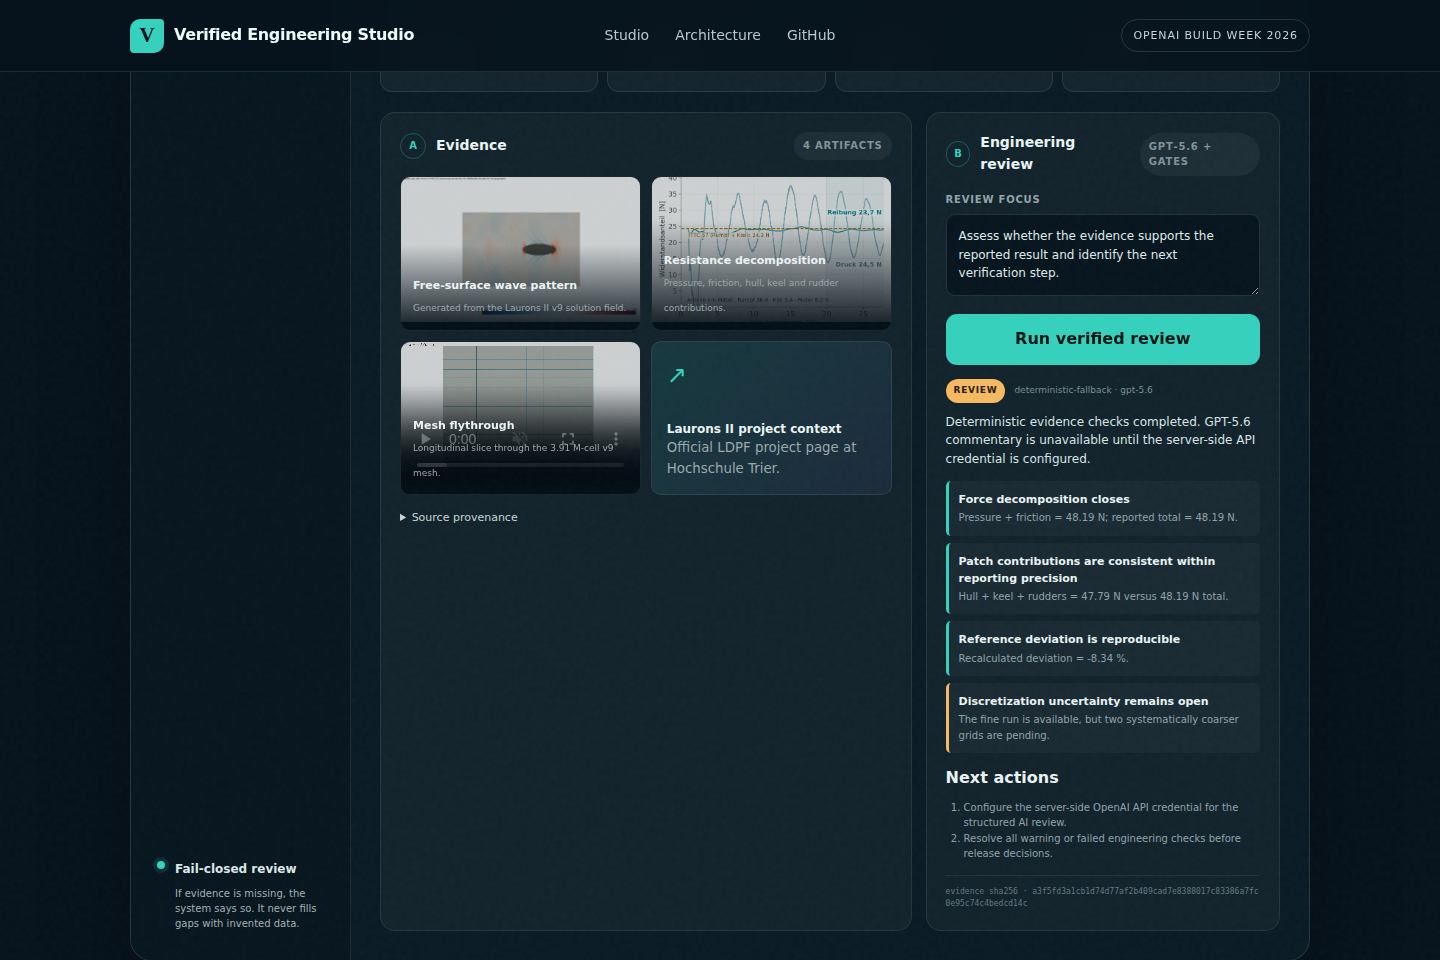
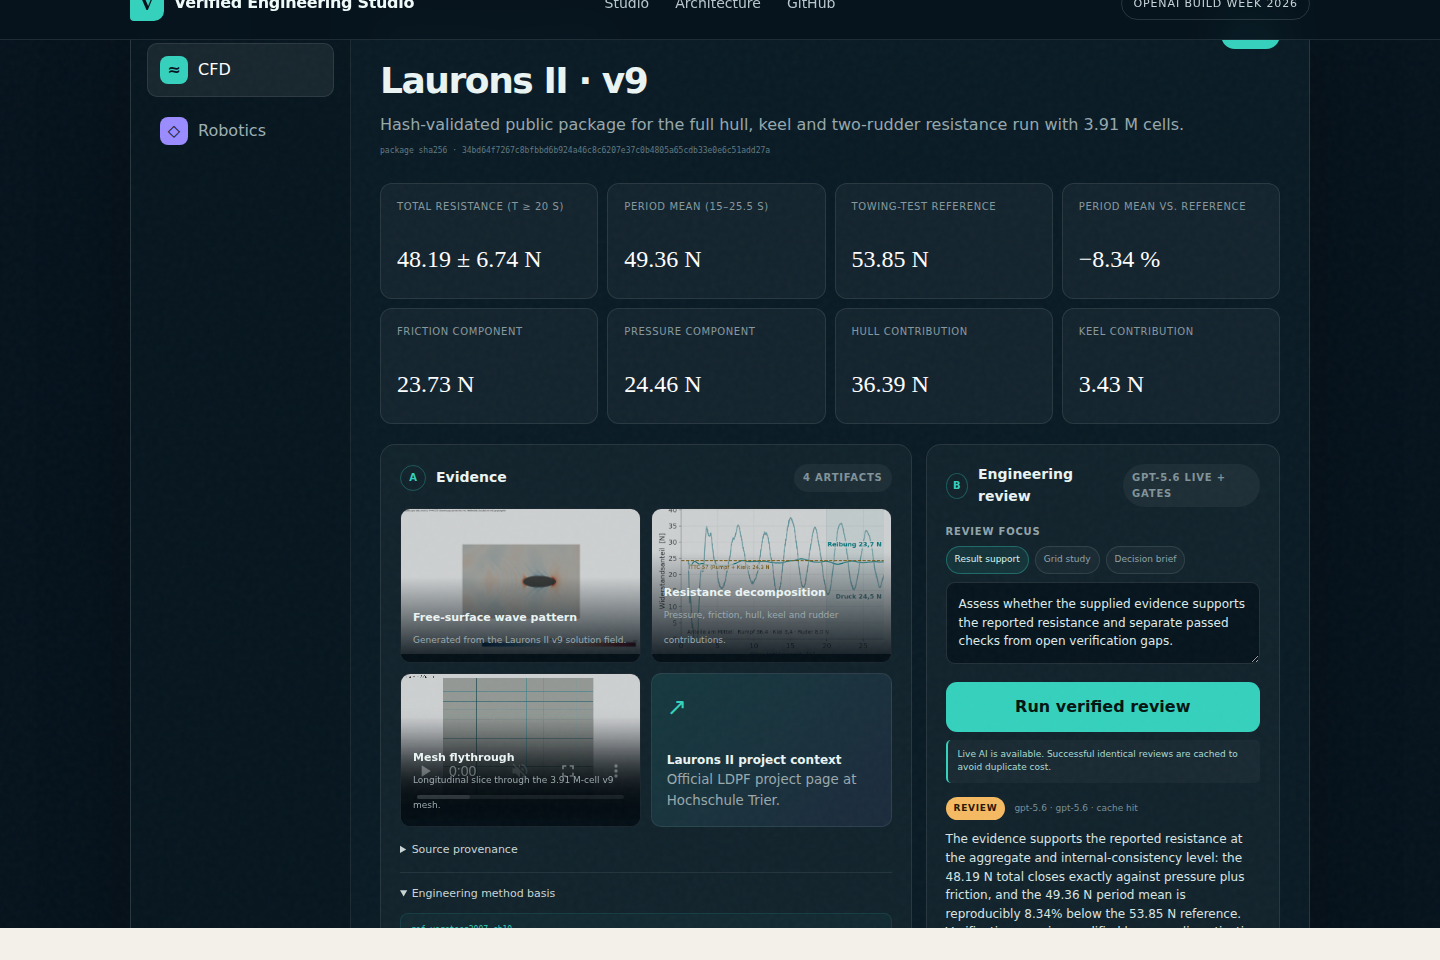
refresh cached live review media

diff --git a/docs/BUILD_WEEK_LOG.md b/docs/BUILD_WEEK_LOG.md
@@ -13,7 +13,7 @@ Week; this log covers the new Verified Engineering Studio product.
   public domains.
 - Added persistent cost controls: visitor/hour and UTC/day limits, single-call concurrency,
   bounded output, timeout, disabled SDK retries and a seven-day result cache.
-- Performed one controlled live GPT-5.6 review and verified deterministic fallback behavior.
+- Performed controlled live GPT-5.6 reviews and verified deterministic fallback behavior.
 - Designed the long-term dual-domain product roadmap and kept the Isaac adapter in honest
   `handoff pending` state while its separate stabilization session continues.
 - Implemented `.vespack` v1 with typed manifest/provenance, exact sizes, SHA-256 index, canonical
@@ -25,10 +25,12 @@ Week; this log covers the new Verified Engineering Studio product.
   for an admissible monotonic, approximately constant-ratio sequence.
 - Added guided review questions, visible deterministic gates/method citations, CI and security/
   numerical regression tests.
+- Pre-generated and cached all three guided CFD reviews, verified the public cache path and
+  regenerated the 3:2 Devpost review screenshot from the deployed release.
 
 ## Explicitly pending
 
 - stable Isaac handoff export from the independent bug-fix session;
 - actual medium/coarse OpenFOAM results for the Laurons convergence study;
-- refreshed screenshots and final narrated video after the current release is deployed;
+- final narrated video from the deployed release;
 - user-owned YouTube upload, Devpost final fields, feedback session ID and submission action.

diff --git a/docs/ASSET_REGISTER.md b/docs/ASSET_REGISTER.md
@@ -5,8 +5,10 @@
 | `wave-top.png` | Project-generated OpenFOAM visualization | Approved |
 | `resistance-breakdown.png` | Project-generated diagram from aggregate force data | Approved |
 | `mesh-flythrough.mp4` | Project-generated v9 mesh visualization | Approved |
+| `submission/media/01-product-hero.png` | Screenshot of the project-owned VES interface | Approved |
+| `submission/media/02-cfd-review.png` | Screenshot of a cached GPT-5.6 review in VES | Approved |
+| `submission/media/03-module-architecture.png` | Screenshot of the project-owned VES interface | Approved |
 | Laurons II LDPF page | External Hochschule Trier page | Link only; not copied |
 
 Future wave renders and project-owned CAD renders may be added after a provenance and rights check.
 Third-party reports, photographs and CAD are excluded unless explicit permission is documented.
-

diff --git a/submission/devpost.md b/submission/devpost.md
@@ -120,8 +120,8 @@ Python, FastAPI, Pydantic, OpenAI API, GPT-5.6, OpenAI Responses API, Structured
 ## Project media
 
 - `submission/media/01-product-hero.png`
+- `submission/media/02-cfd-review.png`
 - `submission/media/03-module-architecture.png`
-- Regenerate `02-cfd-review.png` after the new evidence-gate interface is deployed.
 
 ## Video demo link
 